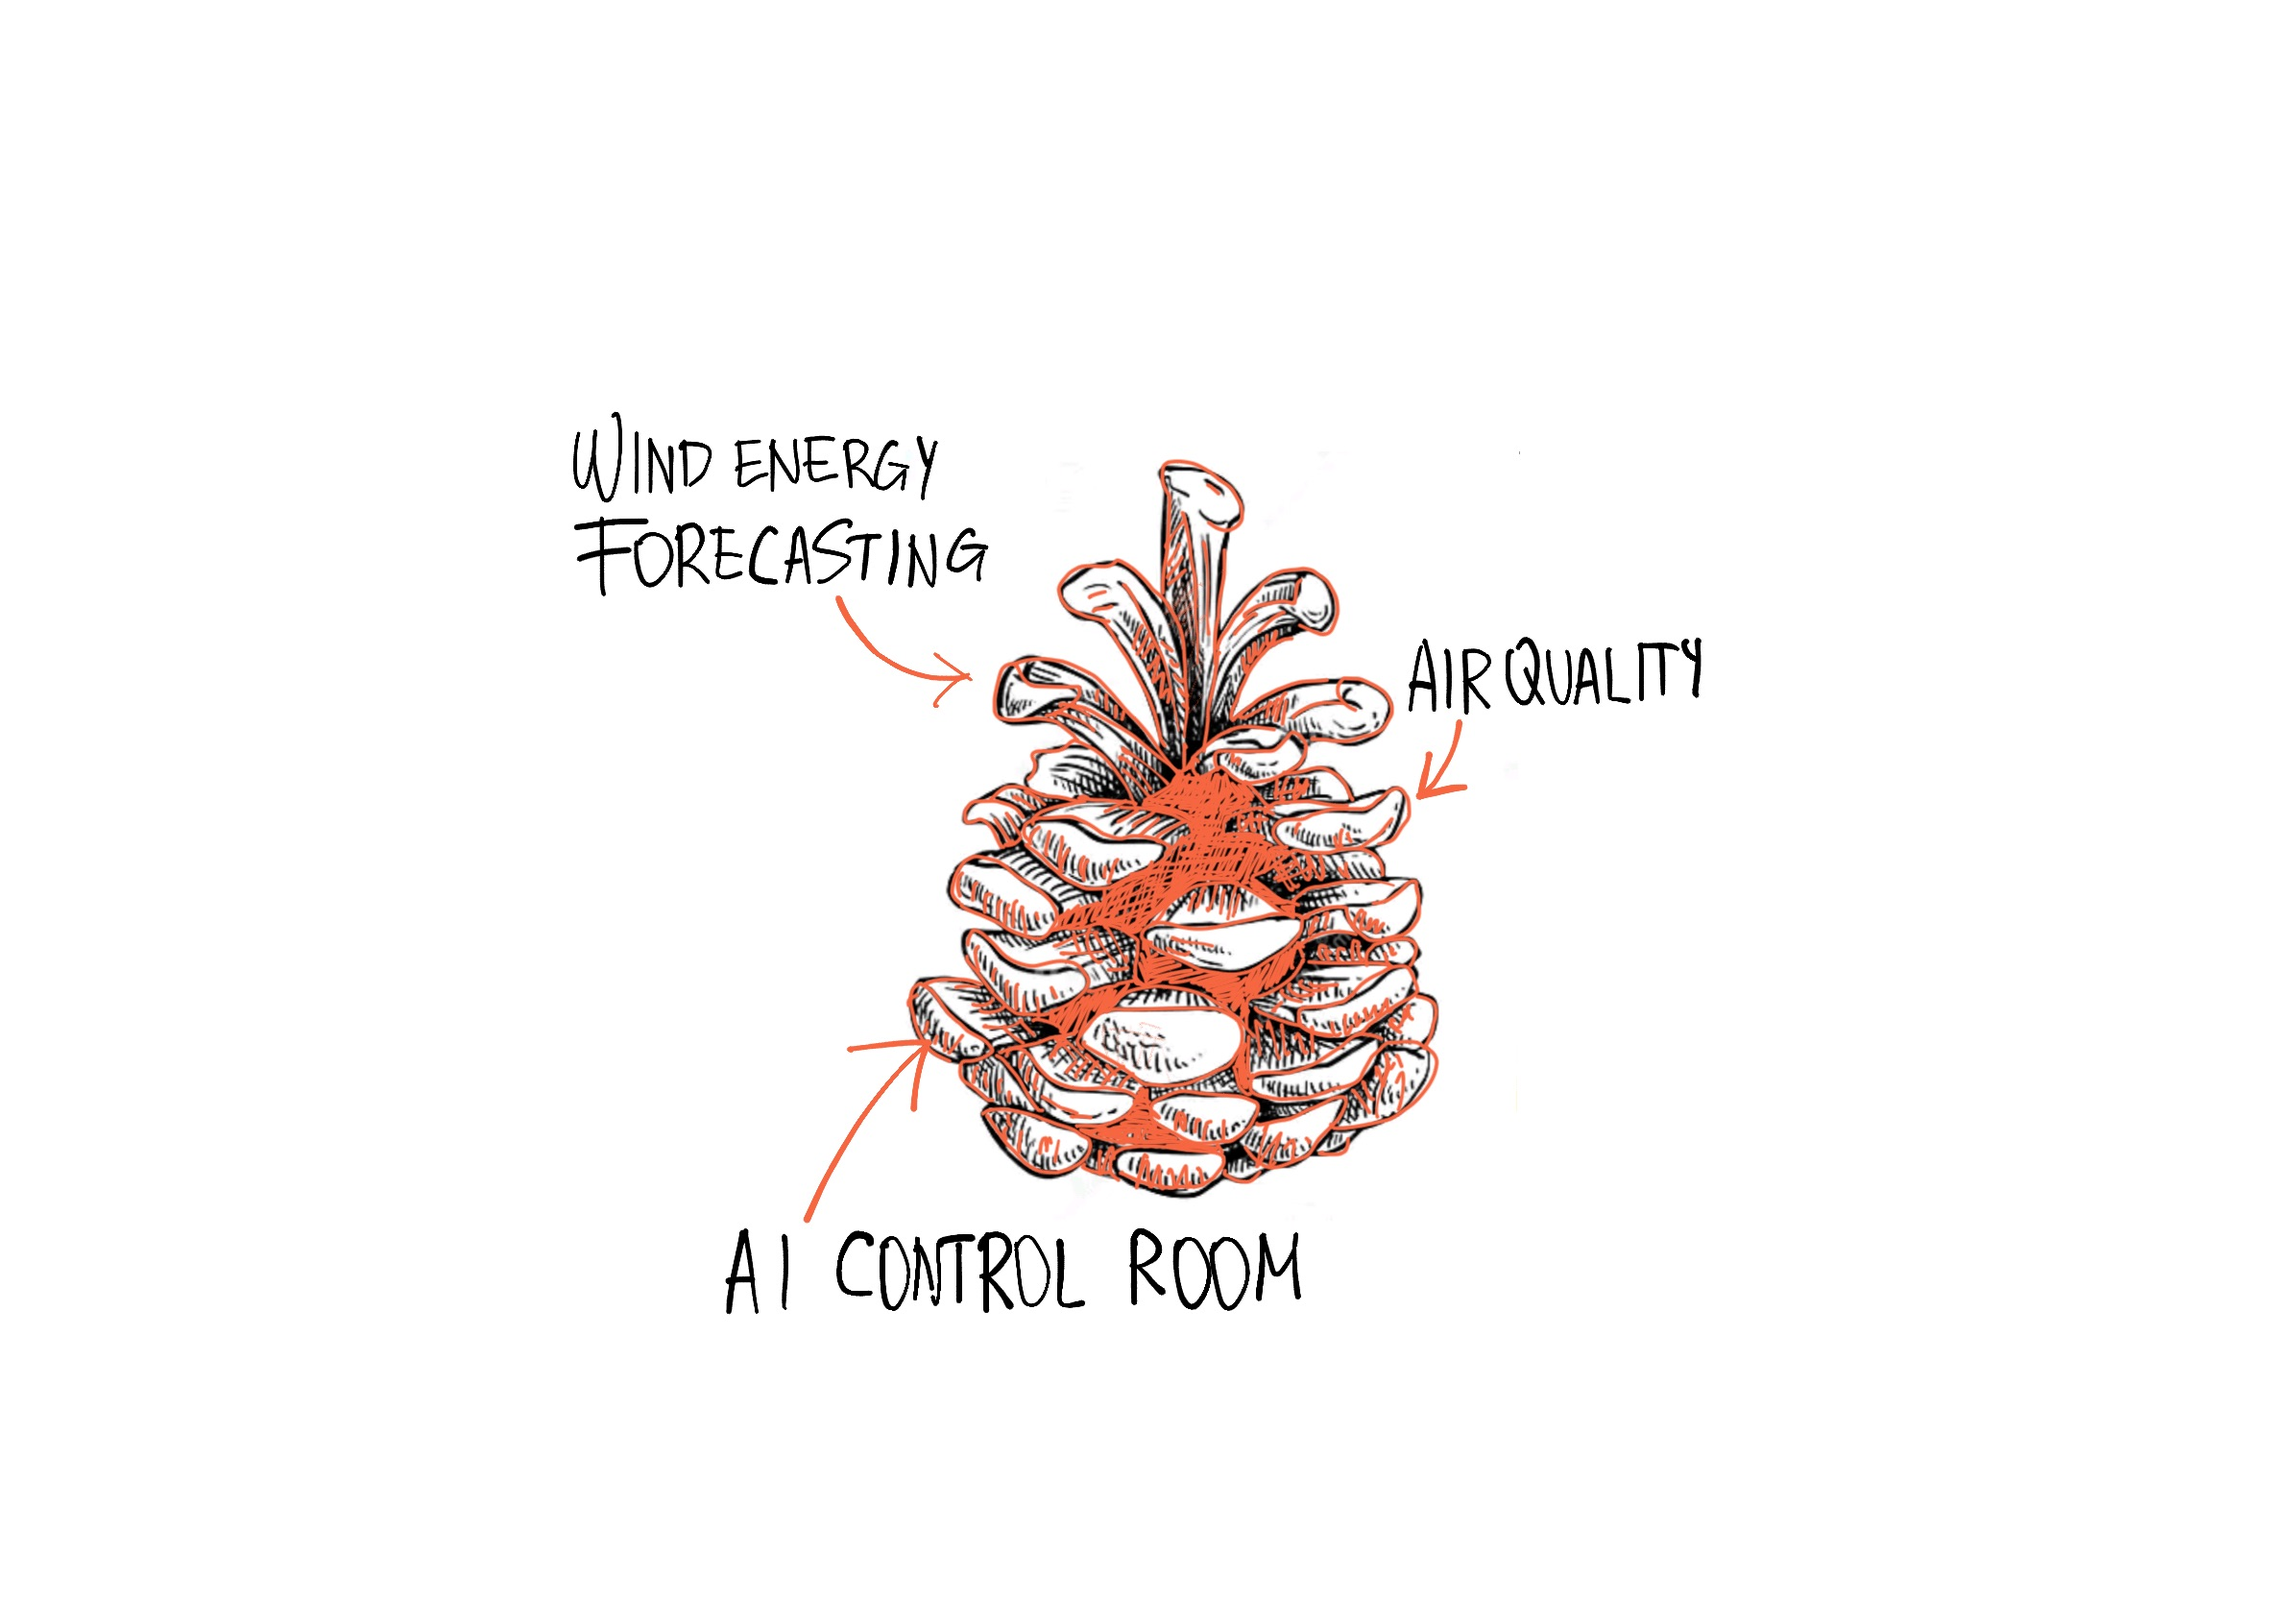
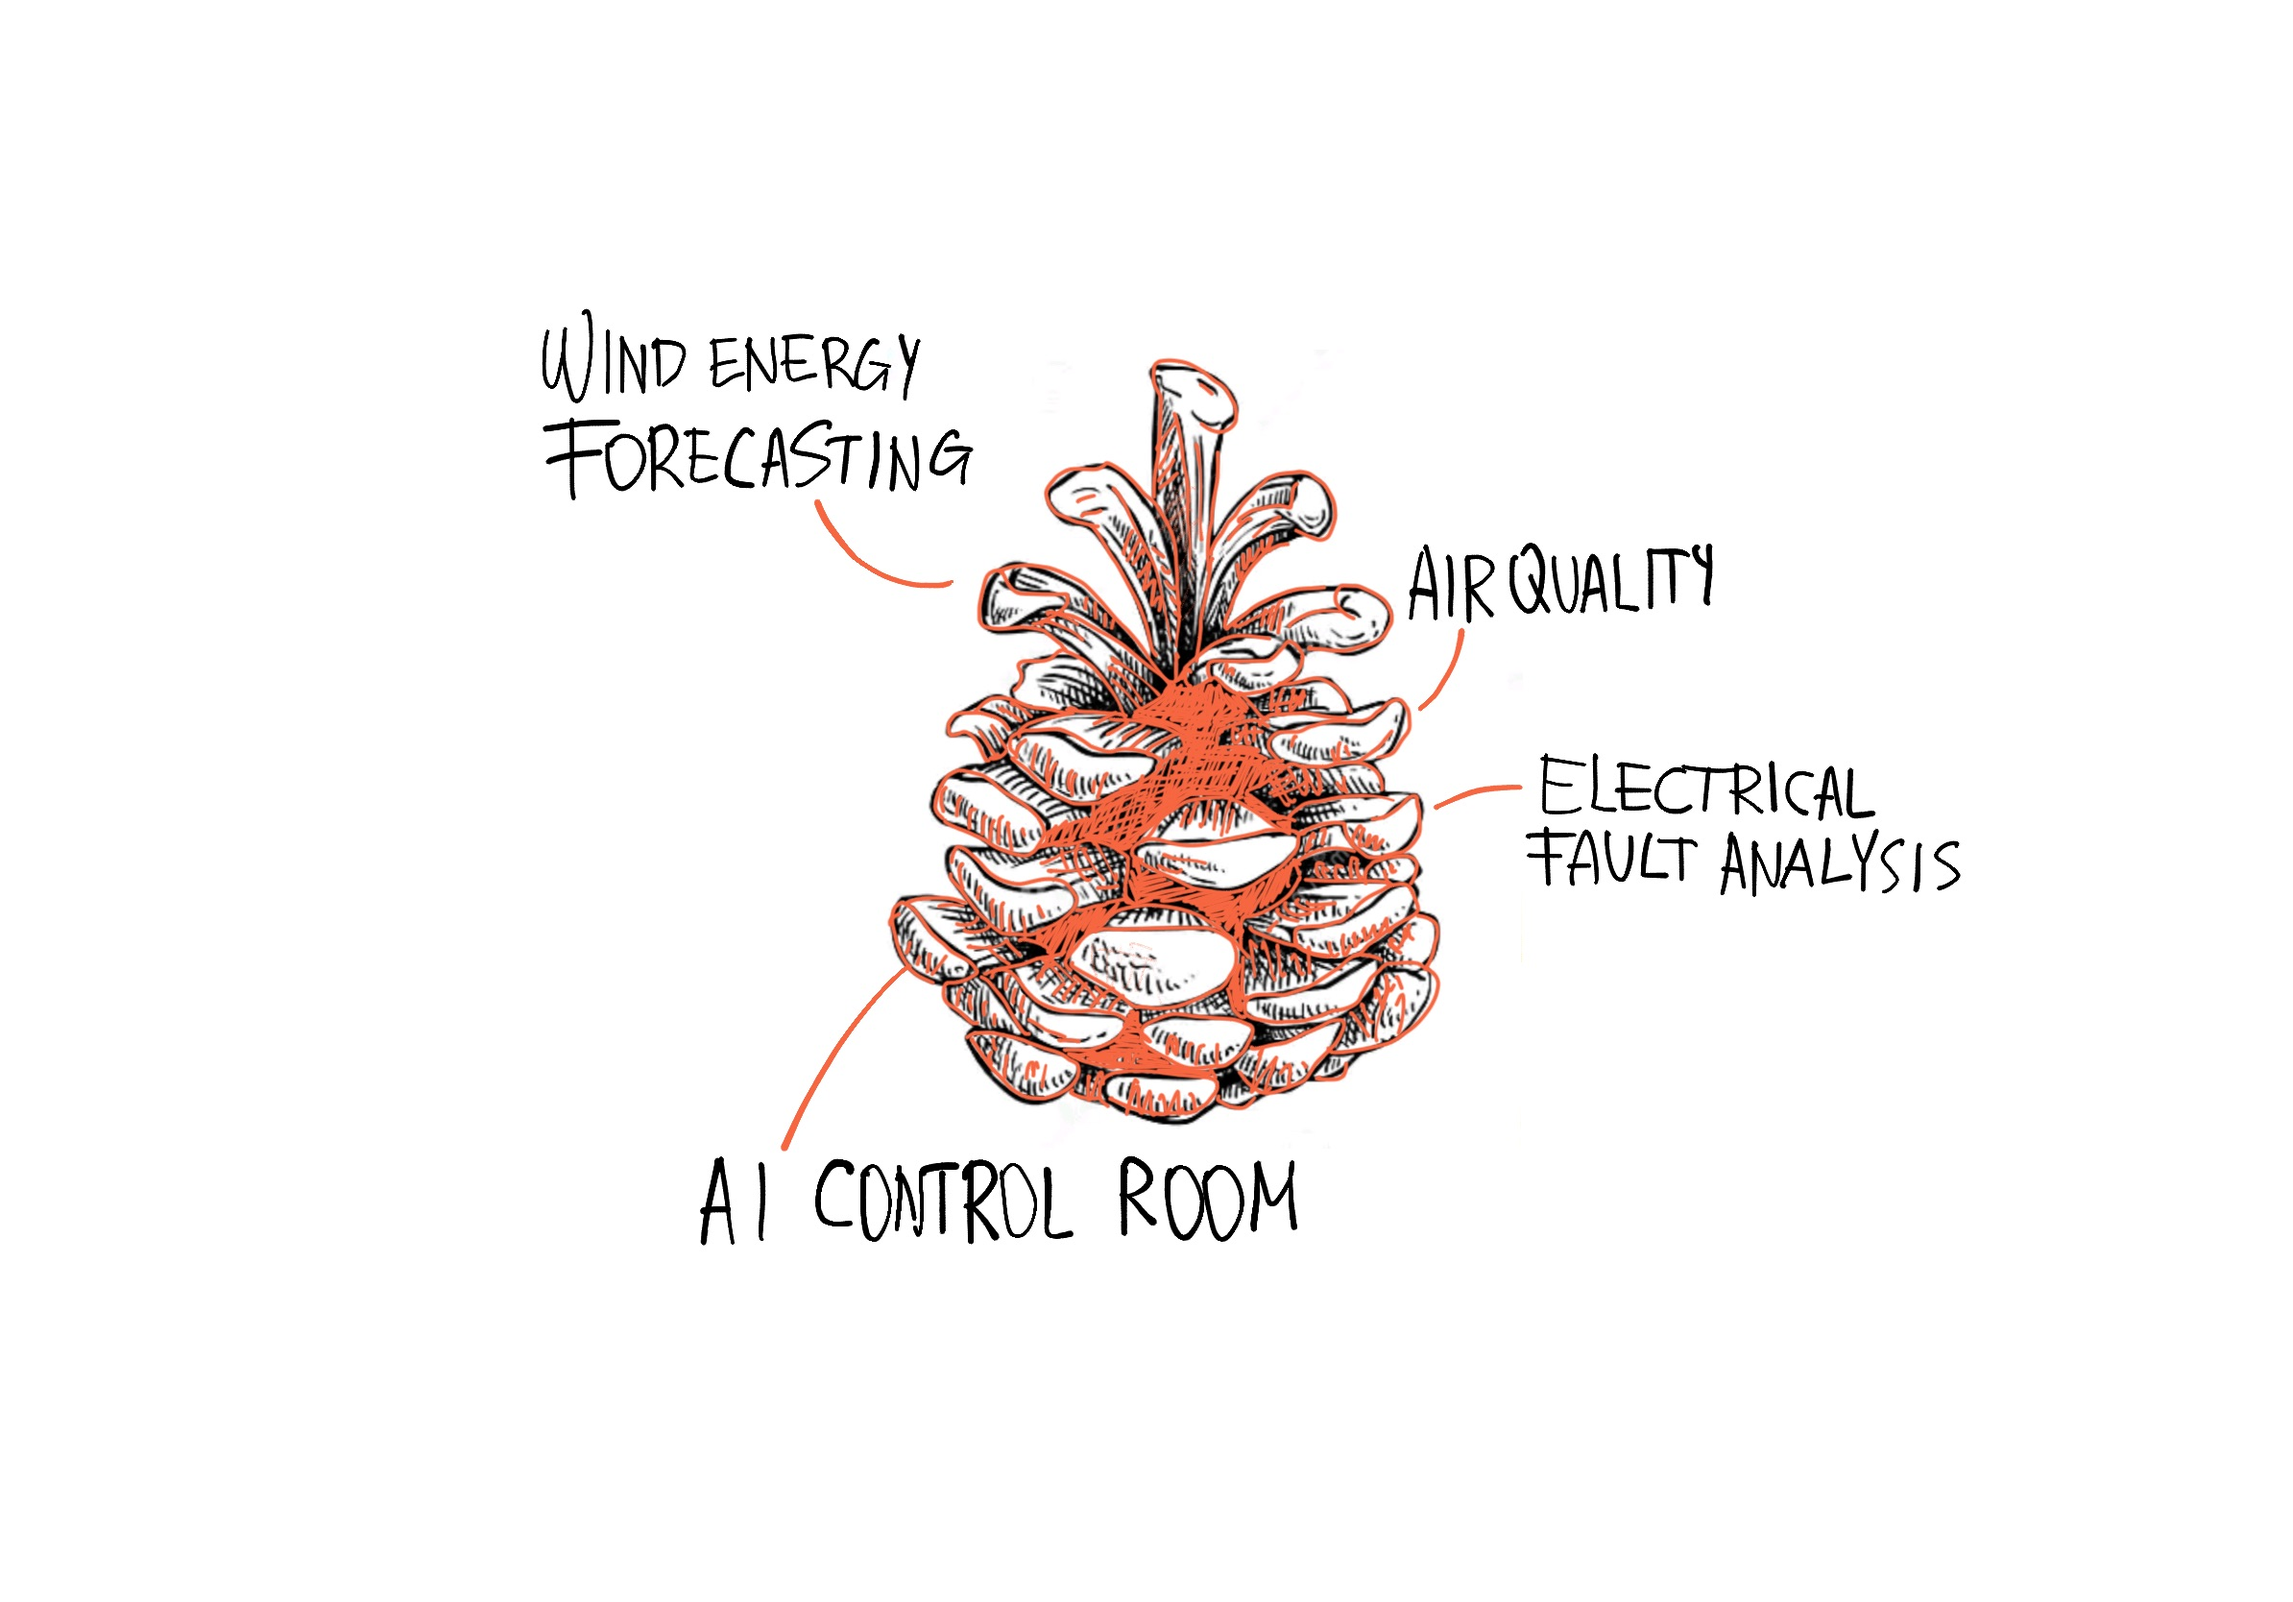
electrical fault

Changed region(s): [[0.2169, 0.1871, 0.8367, 0.8106]]

diff --git a/index.html b/index.html
@@ -99,14 +99,15 @@
       <!-- Test Section -->
       <div class="bg-white rounded-lg shadow-md p-6 transform hover:shadow-lg transition duration-300 ease-in-out">
         <h3 class="text-xl font-medium text-gray-800 mb-2 flex justify-between items-center cursor-pointer" onclick="toggleImages('imageContainer1', 'arrow2')">
-          e-distribuzione Analytics
+          Electrical fault analysis
           <span id="arrow2" class="ml-2 transform transition duration-300 ease-in-out material-icons">expand_more</span>
         </h3>
-        <p class="text-gray-600">Enel fault monitoring</p>
+        
+        <p class="text-gray-600">Analysis of electrical faults on Italian MV and LV power lines</p>
         <div id="imageContainer1" class="mt-4 hidden">
           <div class="grid grid-cols-1 sm:grid-cols-2 gap-4">
-            <a href="#lightbox1"><img src="image/e-analytics_1.jpg" alt="e-analytics_1" class="w-full h-auto rounded-lg shadow-md"></a>
-            <a href="#lightbox2"><img src="image/e-analytics_2.jpg" alt="e-analytics_2" class="w-full h-auto rounded-lg shadow-md"></a>
+            <a href="#lightbox1"><img src="image/power-line-faults-Italy-1.jpg" alt="image/power-line-faults-Italy-1" class="w-full h-auto rounded-lg shadow-md"></a>
+            <a href="#lightbox2"><img src="image/power-line-faults-Italy-2.jpg" alt="image/power-line-faults-Italy-2" class="w-full h-auto rounded-lg shadow-md"></a>
           </div>
         </div>
       </div>
@@ -120,12 +121,12 @@
   <!-- Lightbox Elements -->
   <div id="lightbox1" class="lightbox">
     <a href="#" class="close">&times;</a>
-    <img src="image/e-analytics_1.jpg" alt="e-analytics_1">
+    <img src="image/power-line-faults-Italy-1.jpg" alt="image/power-line-faults-Italy-1">
   </div>
 
   <div id="lightbox2" class="lightbox">
     <a href="#" class="close">&times;</a>
-    <img src="image/e-analytics_2.jpg" alt="e-analytics_2">
+    <img src="image/power-line-faults-Italy-2.jpg" alt="image/power-line-faults-Italy-2">
   </div>
 
   <script>
